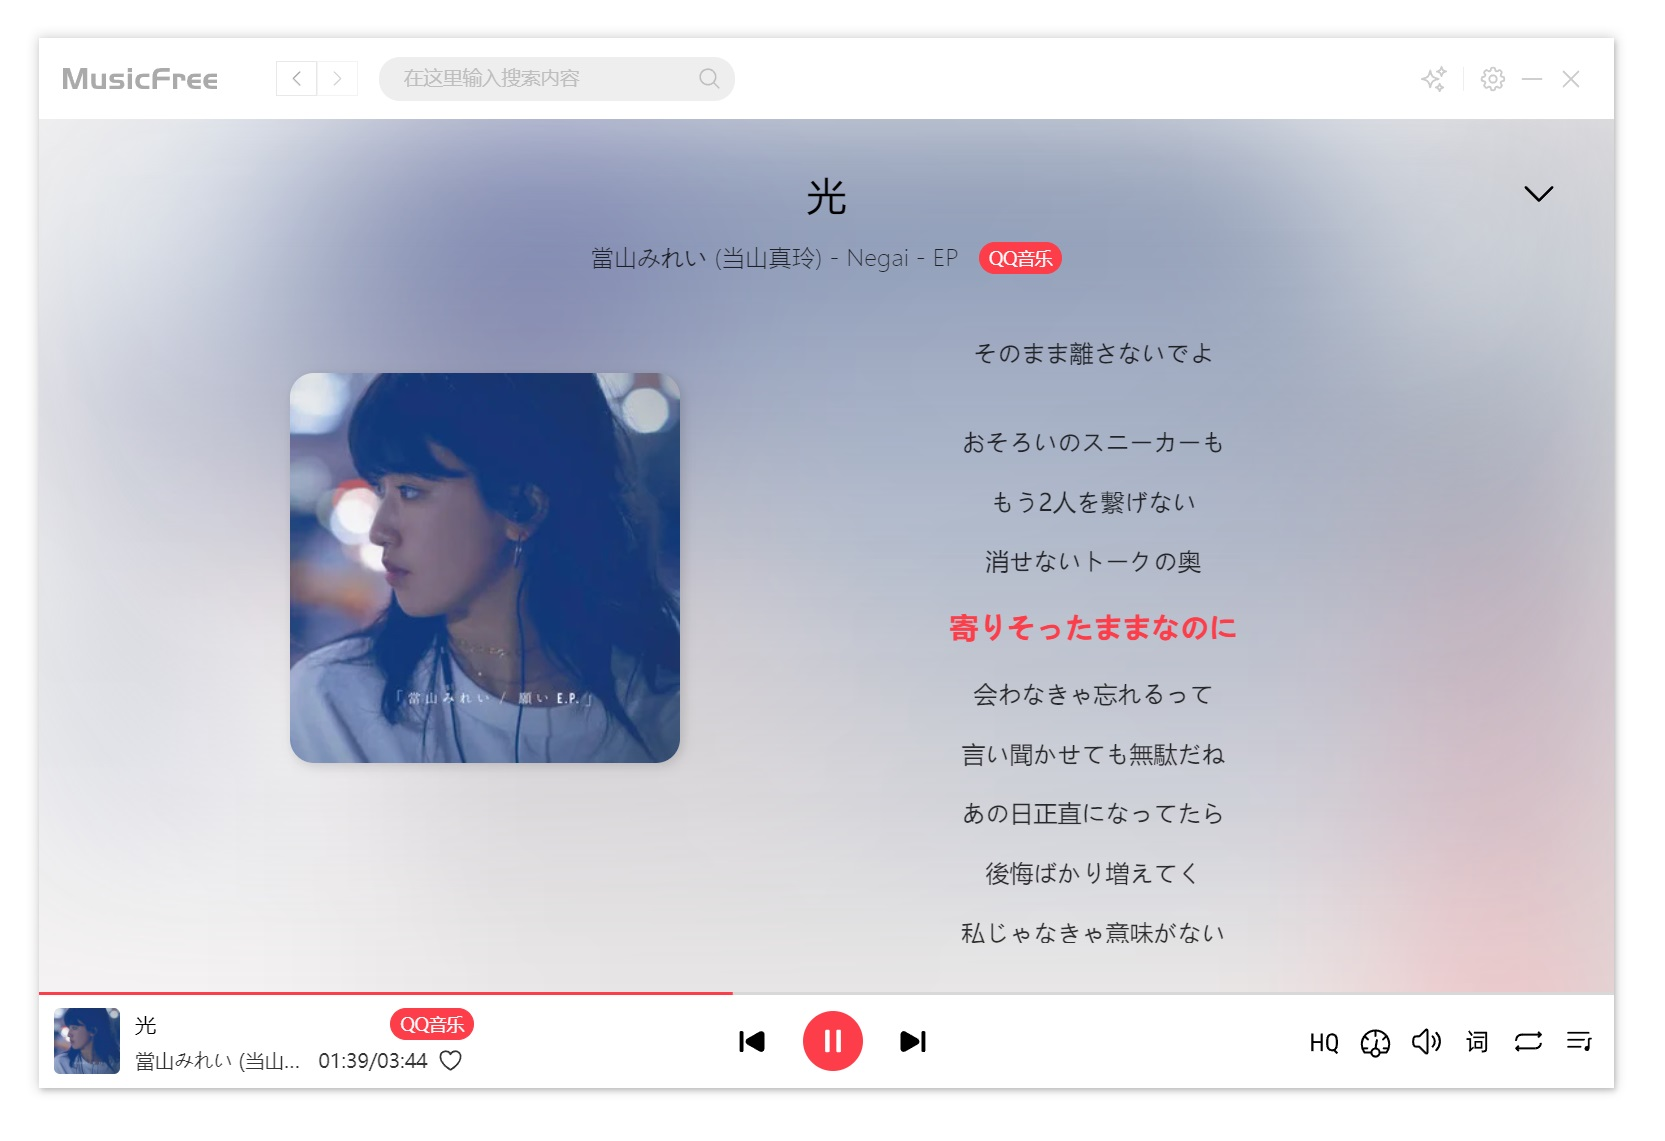
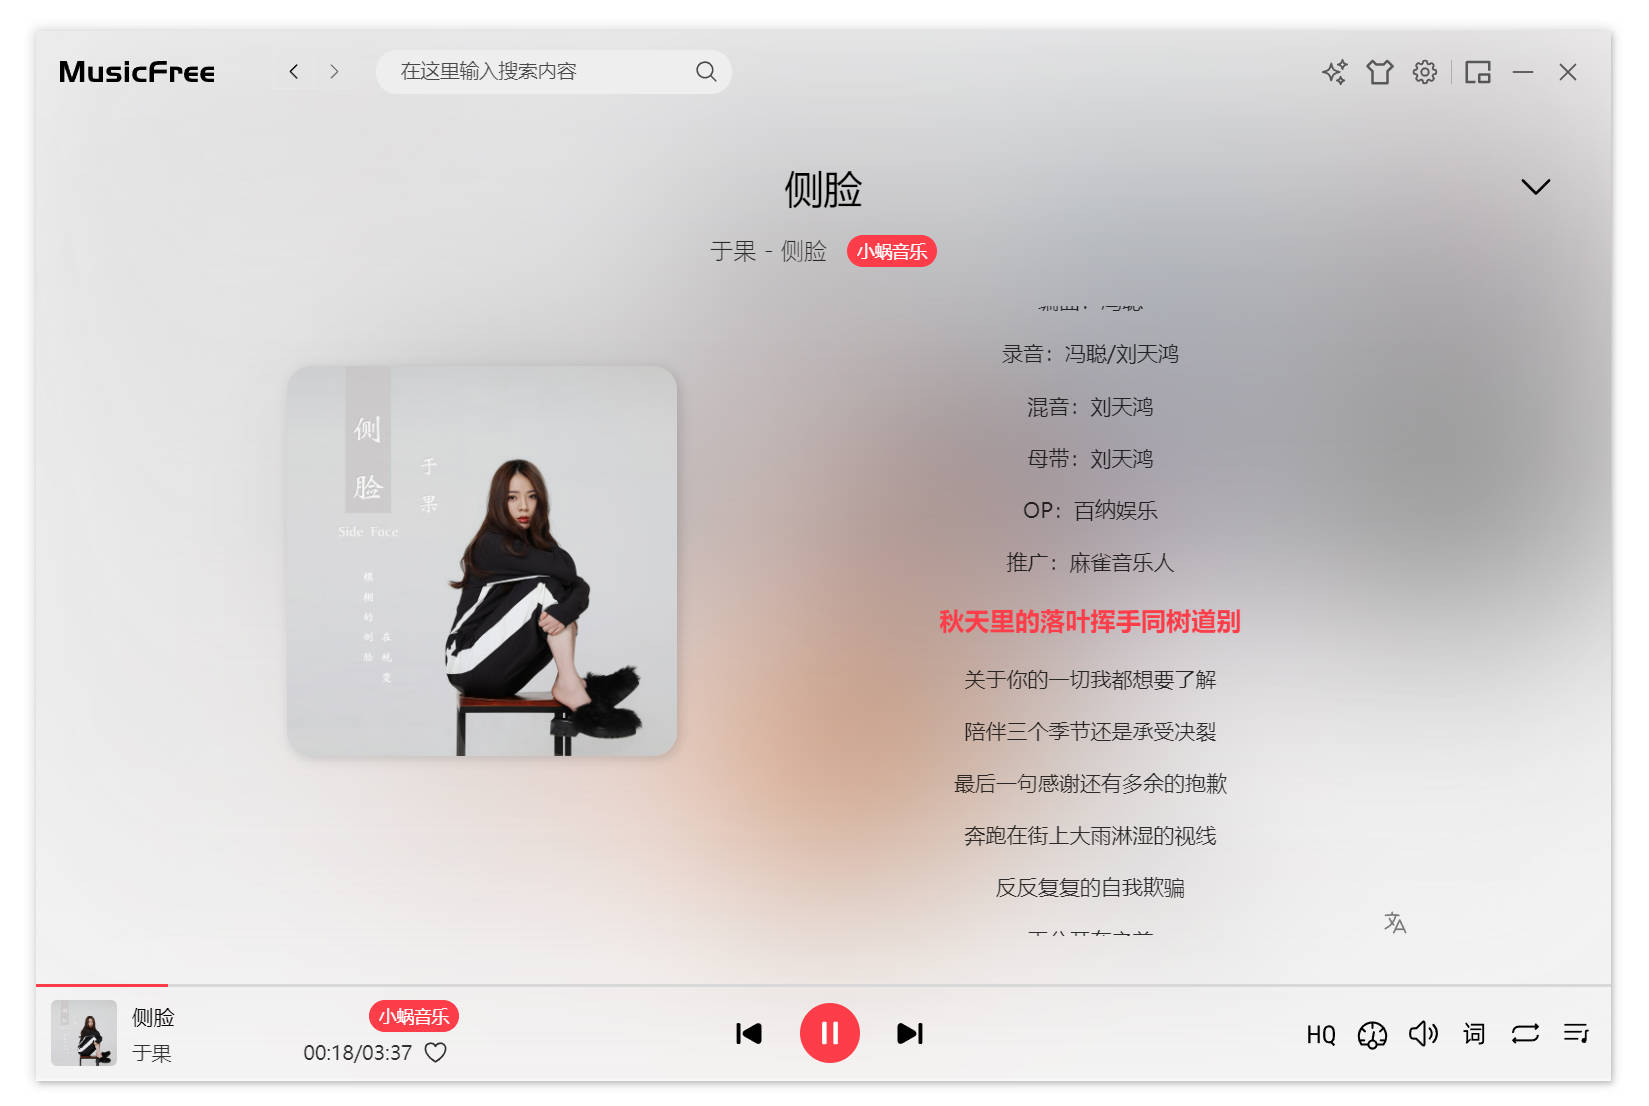
播放页美化

diff --git a/light-white/index.css b/light-white/index.css
@@ -25,7 +25,7 @@
   --listHoverColor: rgba(255, 255, 255, 0.05) !important;
   --listActiveColor: rgba(255, 255, 255, 0.1) !important;
   --placeholderColor: #aaaaaa !important;
-  --headerTextColor: #aaaaaa !important;
+  --headerTextColor: #000000 !important;
 }
 
 .music-detail-container {
@@ -34,17 +34,19 @@
   -webkit-backdrop-filter: blur(75px);
   mask-image: none !important;
   -webkit-mask-image: none !important;
+  top: -64px!important;
+  bottom: -64px!important;
+  padding-top: 64px!important;
 }
 
-.header-container {
-  background-color: rgba(255, 255, 255, 0.1) !important;
-  backdrop-filter: blur(75px);
-    -webkit-backdrop-filter: blur(75px);
+.hide-music-detail {
+  top: 100px !important;
 }
+
+.header-container,
 .music-bar-container {
-    background-color: rgba(255, 255, 255, 0.1) !important;
-  backdrop-filter: blur(75px);
-    -webkit-backdrop-filter: blur(75px);
+  background-color: transparent !important;
+  backdrop-filter: blur(1px);
 }
 
 input + svg {
